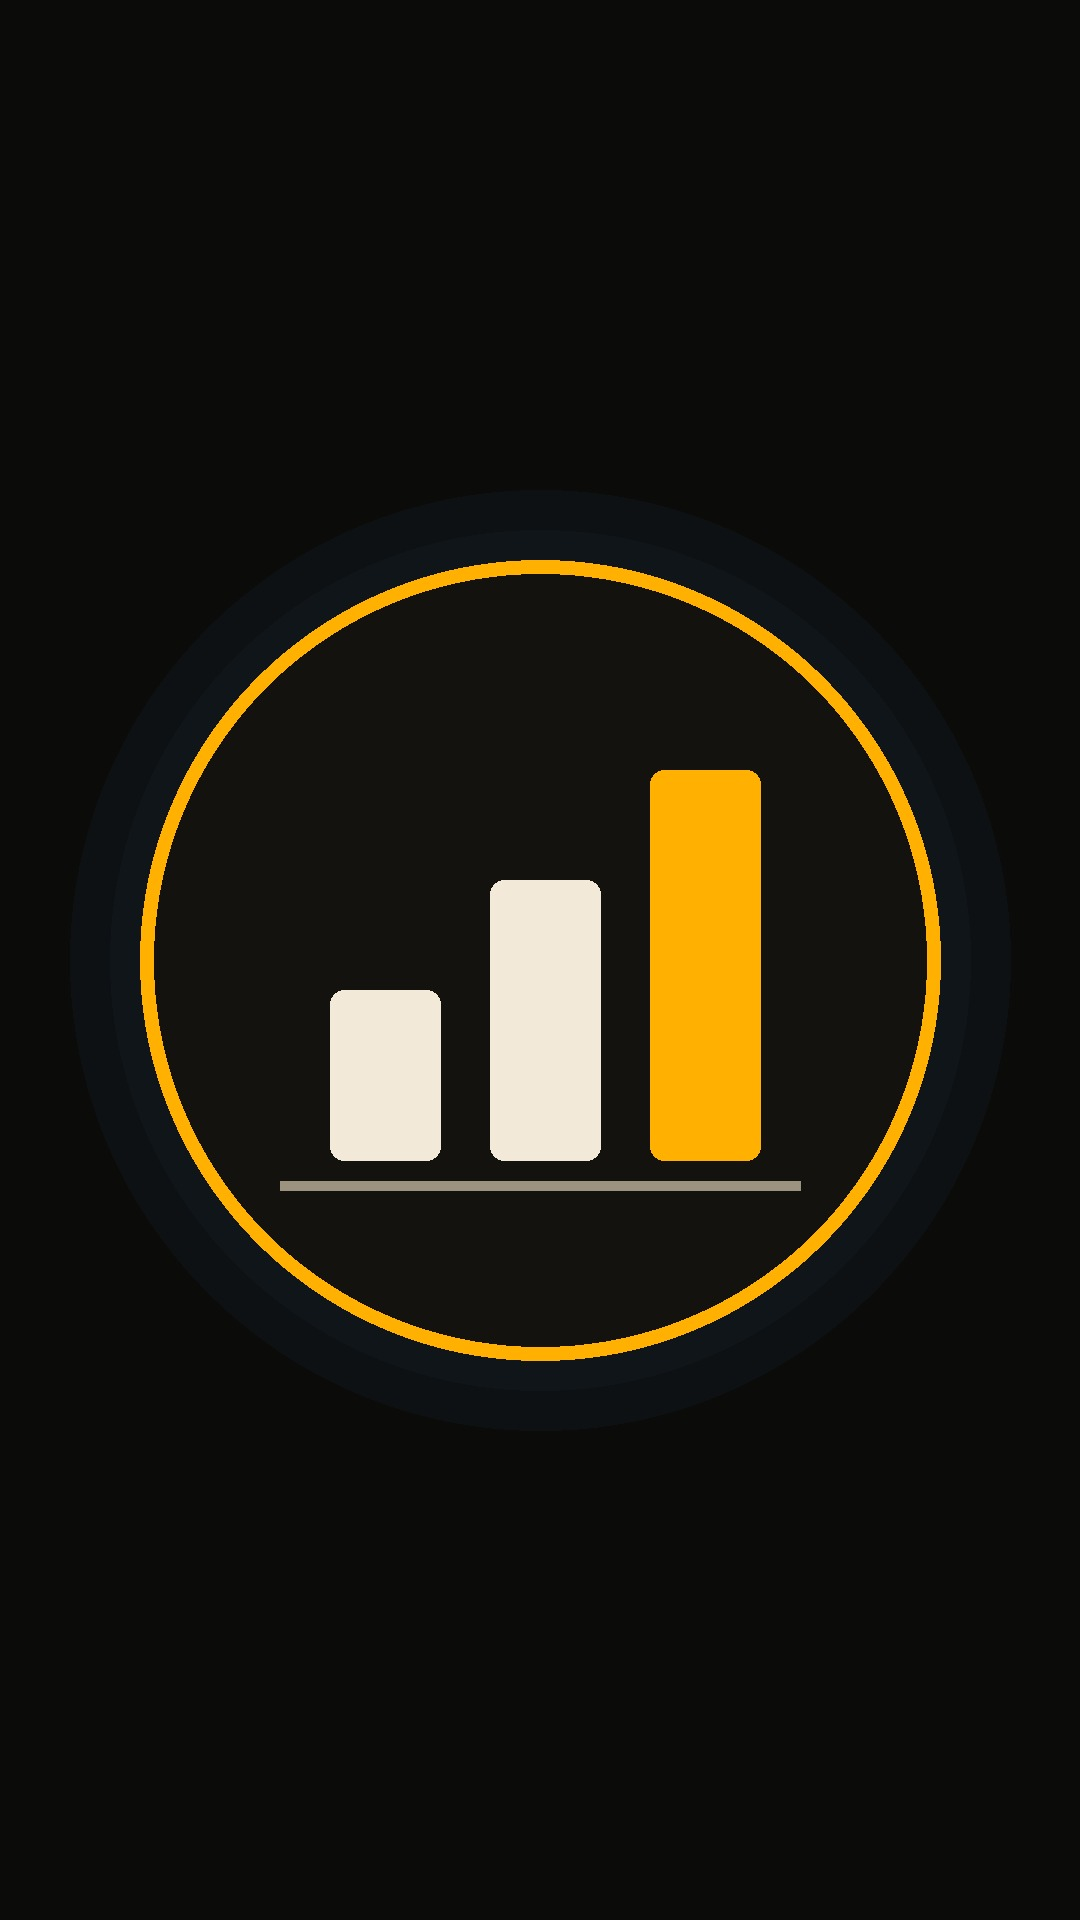
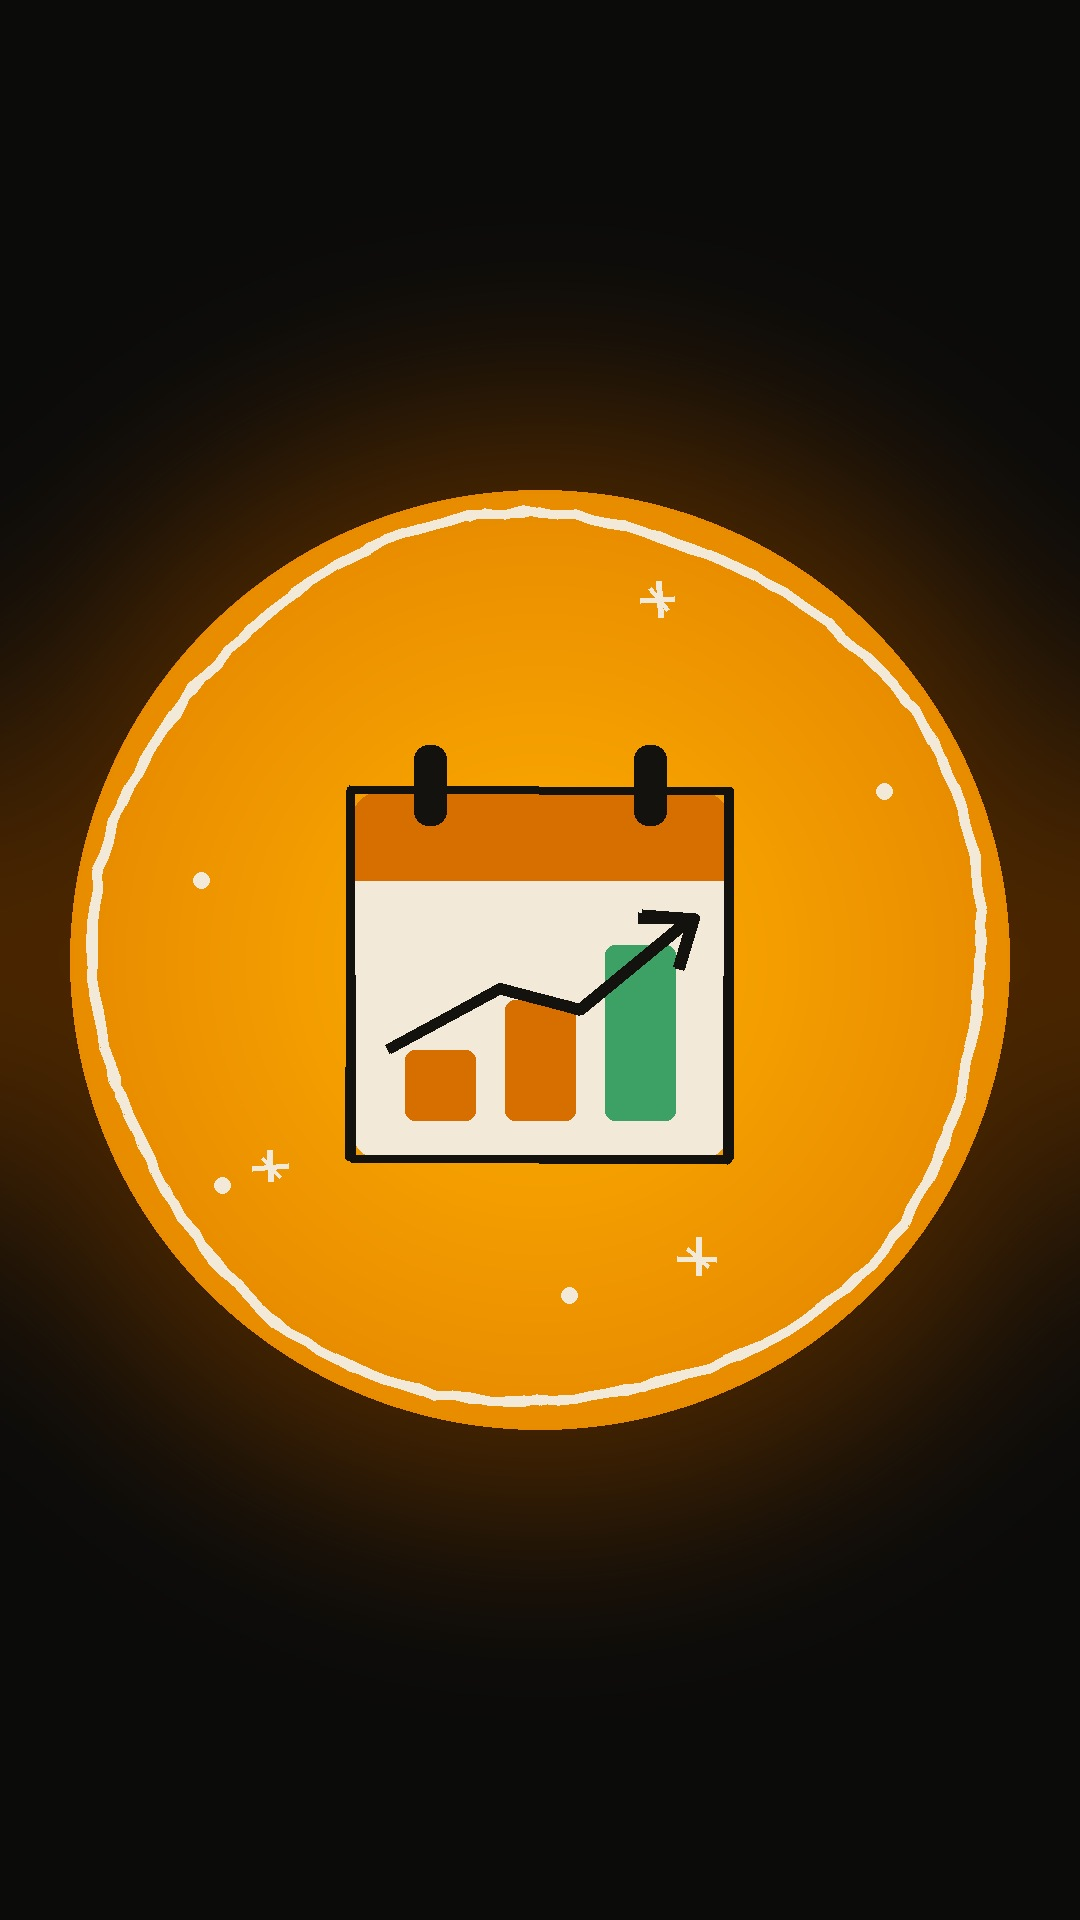
Instagram highlights v2: six highlights (Start here, Daily, Lead changes, Big moments, Report cards, Meet the AIs) with colourful hand-drawn covers and a visual guide
Claude-Session: https://claude.ai/code/session_01Hd3CX99GmsRbdRWtmXYXJE

diff --git a/ops/hl_covers.py b/ops/hl_covers.py
@@ -1,0 +1,185 @@
+"""Instagram highlight covers, v2 (owner, Oct 30: "more colour, more drawings, more entertaining"). Each cover is 1080x1920; Instagram
+shows only the centre circle, so each one is a bright disc with a big hand-drawn icon, doodles and sparkles, one colour per highlight.
+Also draws a one-page visual guide (social/highlights/guide-*.jpg): every highlight, its cover, what goes in it and how many stories.
+
+  python3 ops/hl_covers.py
+"""
+import math
+import os
+import random
+import sys
+
+from PIL import Image, ImageDraw, ImageFilter
+
+sys.path.insert(0, os.path.dirname(os.path.abspath(__file__)))
+import postcard as pc  # noqa: E402
+
+BG = (11, 11, 10)
+CREAM = (242, 233, 216)
+INK = (20, 18, 15)
+
+# name, file, colour, second colour, what goes in it, how many stories
+HL = [
+    ('Start here', 'start-here', (61, 220, 132), (24, 140, 90), 'How the race works: the three AIs, the ten races, how scoring works, where to follow.', '4 stories'),
+    ('Daily', 'daily', (255, 176, 0), (214, 110, 0), 'The results of every race day, one story per day, all ten races on it.', '1 a day (all 32)'),
+    ('Lead changes', 'lead-changes', (255, 209, 102), (217, 119, 87), 'Every time an AI takes the lead in a race. Keep the biggest ones.', 'best 10 to 15'),
+    ('Big moments', 'big-moments', (255, 90, 78), (180, 30, 60), 'The headlines: the Binance hack call, huge wins, painful losses.', '5 to 10'),
+    ('Report cards', 'report-cards', (79, 143, 247), (60, 70, 200), 'The AIs grading each other: the harshest Fs and the best As.', '4 to 8'),
+    ('Meet the AIs', 'meet-the-ais', (167, 139, 250), (110, 70, 210), 'Claude, Gemini and ChatGPT: who they are and how each one plays.', '4 stories'),
+]
+
+
+def wobble(d, pts, color, width, seed, passes=2):
+    rnd = random.Random(seed)
+    for k in range(passes):
+        d.line([(x + rnd.uniform(-2.2, 2.2), y + rnd.uniform(-2.2, 2.2)) for x, y in pts], fill=color, width=max(3, width - 3 * k), joint='curve')
+
+
+def ring(d, cx, cy, r, color, width, seed):
+    pts = [(cx + r * (1 + 0.012 * math.sin(5 * t + seed)) * math.cos(t), cy + r * (1 + 0.012 * math.sin(5 * t + seed)) * math.sin(t)) for t in [i * 2 * math.pi / 160 for i in range(166)]]
+    wobble(d, pts, color, width, seed)
+
+
+def sparkle(d, x, y, s, color, width=6):
+    wobble(d, [(x - s, y), (x + s, y)], color, width, int(x * y) % 97, 1)
+    wobble(d, [(x, y - s), (x, y + s)], color, width, int(x + y) % 89, 1)
+    wobble(d, [(x - s * .55, y - s * .55), (x + s * .55, y + s * .55)], color, max(3, width - 2), int(x) % 83, 1)
+
+
+def disc(im, cx, cy, r, c1, c2):
+    """A soft radial gradient disc."""
+    g = Image.new('RGB', (2 * r, 2 * r), c2)
+    gd = ImageDraw.Draw(g)
+    for i in range(r, 0, -4):
+        t = i / r
+        col = tuple(int(c1[k] * (1 - t * .55) + c2[k] * (t * .55)) for k in range(3))
+        gd.ellipse([r - i, r - i, r + i, r + i], fill=col)
+    mask = Image.new('L', (2 * r, 2 * r), 0)
+    ImageDraw.Draw(mask).ellipse([0, 0, 2 * r - 1, 2 * r - 1], fill=255)
+    im.paste(g, (cx - r, cy - r), mask)
+
+
+def icon(d, name, cx, cy, col, dark):
+    s = 1.0
+    if name == 'start-here':   # a play button with motion lines
+        tri = [(cx - 110, cy - 170), (cx - 110, cy + 170), (cx + 180, cy)]
+        d.polygon(tri, fill=CREAM)
+        wobble(d, tri + [tri[0]], INK, 12, 5)
+        for i, dy in enumerate((-90, 0, 90)):
+            wobble(d, [(cx - 270, cy + dy), (cx - 165, cy + dy)], CREAM, 14, 20 + i)
+    elif name == 'daily':   # a calendar page with a rising arrow
+        d.rounded_rectangle([cx - 190, cy - 170, cx + 190, cy + 200], radius=34, fill=CREAM)
+        d.rounded_rectangle([cx - 190, cy - 170, cx + 190, cy - 80], radius=34, fill=dark)
+        d.rectangle([cx - 190, cy - 110, cx + 190, cy - 80], fill=dark)
+        for x in (-110, 110):
+            d.rounded_rectangle([cx + x - 16, cy - 215, cx + x + 16, cy - 135], radius=14, fill=INK)
+        for i, h in enumerate((70, 120, 175)):
+            x = cx - 135 + i * 100
+            d.rounded_rectangle([x, cy + 160 - h, x + 70, cy + 160], radius=10, fill=dark if i < 2 else (61, 160, 100))
+        wobble(d, [(cx - 150, cy + 90), (cx - 40, cy + 30), (cx + 40, cy + 50), (cx + 150, cy - 40)], INK, 12, 7)
+        wobble(d, [(cx + 100, cy - 45), (cx + 155, cy - 42), (cx + 140, cy + 10)], INK, 12, 8)
+        wobble(d, [(cx - 190, cy - 170), (cx + 190, cy - 170), (cx + 190, cy + 200), (cx - 190, cy + 200), (cx - 190, cy - 170)], INK, 9, 9)
+    elif name == 'lead-changes':   # a crown with jewels
+        pts = [(cx - 230, cy + 110), (cx - 250, cy - 150), (cx - 115, cy - 20), (cx, cy - 210), (cx + 115, cy - 20), (cx + 250, cy - 150), (cx + 230, cy + 110)]
+        d.polygon(pts, fill=CREAM)
+        wobble(d, pts + [pts[0]], INK, 12, 11)
+        d.rounded_rectangle([cx - 230, cy + 120, cx + 230, cy + 200], radius=18, fill=CREAM, outline=INK, width=10)
+        for (x, y), jc in zip(((-250, -150), (0, -210), (250, -150)), ((217, 119, 87), (79, 143, 247), (61, 220, 132))):
+            d.ellipse([cx + x - 36, cy + y - 36, cx + x + 36, cy + y + 36], fill=jc, outline=INK, width=8)
+        for i, x in enumerate((-120, 0, 120)):
+            d.ellipse([cx + x - 22, cy + 138, cx + x + 22, cy + 182], fill=dark)
+    elif name == 'big-moments':   # a lightning bolt with a burst
+        for k in range(12):
+            a = k * math.pi / 6
+            wobble(d, [(cx + 250 * math.cos(a), cy + 250 * math.sin(a)), (cx + 320 * math.cos(a), cy + 320 * math.sin(a))], CREAM, 12, 30 + k, 1)
+        bolt = [(cx + 40, cy - 240), (cx - 130, cy + 30), (cx - 10, cy + 30), (cx - 60, cy + 240), (cx + 140, cy - 50), (cx + 20, cy - 50), (cx + 90, cy - 240)]
+        d.polygon(bolt, fill=(255, 209, 102))
+        wobble(d, bolt + [bolt[0]], INK, 12, 41)
+    elif name == 'report-cards':   # an A+ on a paper, circled, with a pencil
+        d.rounded_rectangle([cx - 170, cy - 220, cx + 170, cy + 220], radius=26, fill=CREAM)
+        wobble(d, [(cx - 170, cy - 220), (cx + 170, cy - 220), (cx + 170, cy + 220), (cx - 170, cy + 220), (cx - 170, cy - 220)], INK, 9, 50)
+        f = pc.font('sans', 'Bold', 230)
+        d.text((cx - 10, cy - 20), 'A', font=f, fill=(255, 90, 78), anchor='mm')
+        d.text((cx + 115, cy - 95), '+', font=pc.font('sans', 'Bold', 130), fill=(255, 90, 78), anchor='mm')
+        ring(d, cx + 5, cy - 25, 165, (255, 90, 78), 10, 51)
+        wobble(d, [(cx - 120, cy + 140), (cx + 120, cy + 140)], (155, 146, 127), 8, 52, 1)
+        wobble(d, [(cx - 120, cy + 180), (cx + 60, cy + 180)], (155, 146, 127), 8, 55, 1)
+        # the pencil
+        p = [(cx + 150, cy + 250), (cx + 300, cy + 40), (cx + 345, cy + 75), (cx + 195, cy + 285)]
+        d.polygon(p, fill=(255, 209, 102)); wobble(d, p + [p[0]], INK, 8, 56)
+        tip = [(cx + 150, cy + 250), (cx + 195, cy + 285), (cx + 140, cy + 305)]
+        d.polygon(tip, fill=CREAM); wobble(d, tip + [tip[0]], INK, 7, 57)
+    elif name == 'meet-the-ais':   # three little robot faces in the AIs' colours
+        for i, (fc, tx) in enumerate((((217, 119, 87), -200), ((79, 143, 247), 0), ((242, 242, 242), 200))):
+            x, y = cx + tx, cy + (-40 if i == 1 else 40)
+            wobble(d, [(x, y - 120), (x, y - 175)], CREAM, 9, 60 + i, 1)
+            d.ellipse([x - 22, y - 200, x + 22, y - 156], fill=(255, 209, 102), outline=INK, width=6)
+            d.rounded_rectangle([x - 95, y - 120, x + 95, y + 80], radius=46, fill=fc, outline=INK, width=10)
+            for ex in (-38, 38):
+                d.ellipse([x + ex - 20, y - 60, x + ex + 20, y - 20], fill=INK)
+                d.ellipse([x + ex - 6, y - 52, x + ex + 4, y - 42], fill=CREAM)
+            wobble(d, [(x - 35, y + 25), (x, y + 45), (x + 35, y + 25)], INK, 9, 63 + i, 1)
+
+
+def cover(name, c1, c2, path, seed):
+    W, H, cx, cy, r = 1080, 1920, 540, 960, 470
+    im = Image.new('RGB', (W, H), BG)
+    # a soft colour glow behind the disc
+    glow = Image.new('RGB', (W, H), BG); gd = ImageDraw.Draw(glow)
+    gd.ellipse([cx - 560, cy - 560, cx + 560, cy + 560], fill=tuple(int(v * .35) for v in c2))
+    im = Image.blend(im, glow.filter(ImageFilter.GaussianBlur(90)), 1.0)
+    disc(im, cx, cy, r, c1, c2)
+    d = ImageDraw.Draw(im)
+    ring(d, cx, cy, r - 26, CREAM, 10, seed)
+    rnd = random.Random(seed)
+    for k in range(7):   # sparkles and dots inside the edge of the circle
+        a = rnd.uniform(0, 2 * math.pi); rr = rnd.uniform(330, 395)
+        x, y = cx + rr * math.cos(a), cy + rr * math.sin(a)
+        if k % 2:
+            sparkle(d, x, y, rnd.uniform(16, 26), CREAM, 6)
+        else:
+            d.ellipse([x - 8, y - 8, x + 8, y + 8], fill=CREAM)
+    icon(d, name, cx, cy, c1, c2)
+    im.save(path, quality=93)
+    return path
+
+
+def guide(paths, out):
+    """One colourful page: every highlight, its cover, what goes in it and how many stories."""
+    W, H = 1440, 2560
+    im = Image.new('RGB', (W, H), BG); d = ImageDraw.Draw(im)
+    f = lambda k, w, s: pc.font(k, w, s)
+    d.text((90, 120), 'PAPER TRADES', font=f('mono', 'SemiBold', 44), fill=CREAM, anchor='lm')
+    d.text((90, 230), 'Your highlights', font=f('sans', 'Bold', 120), fill=(255, 176, 0), anchor='lm')
+    wobble(d, [(95, 310), (300, 302), (520, 312), (740, 304)], (255, 176, 0), 10, 3)
+    d.text((90, 380), 'In this order on the profile. Each circle is its cover.', font=f('sans', 'Regular', 44), fill=(155, 146, 127), anchor='lm')
+    y = 470
+    for (title, key, c1, c2, what, n), p in zip(HL, paths):
+        cov = Image.open(p).crop((540 - 470, 960 - 470, 540 + 470, 960 + 470)).resize((260, 260), Image.LANCZOS)
+        m = Image.new('L', (260, 260), 0); ImageDraw.Draw(m).ellipse([0, 0, 259, 259], fill=255)
+        im.paste(cov, (90, y), m)
+        ring(d, 220, y + 130, 138, c1, 7, len(title))
+        d.text((400, y + 50), title, font=f('sans', 'Bold', 66), fill=CREAM, anchor='lm')
+        tw = f('sans', 'Bold', 66).getlength(title)
+        d.rounded_rectangle([400 + tw + 30, y + 22, 400 + tw + 30 + f('mono', 'SemiBold', 30).getlength(n) + 40, y + 78], radius=28, fill=c1)
+        d.text((400 + tw + 50, y + 50), n, font=f('mono', 'SemiBold', 30), fill=INK, anchor='lm')
+        ww, yy = W - 490, y + 110
+        line = ''
+        for wd in what.split():
+            t = (line + ' ' + wd).strip()
+            if f('sans', 'Regular', 38).getlength(t) > ww:
+                d.text((400, yy), line, font=f('sans', 'Regular', 38), fill=(200, 192, 176), anchor='lm'); yy += 50; line = wd
+            else:
+                line = t
+        d.text((400, yy), line, font=f('sans', 'Regular', 38), fill=(200, 192, 176), anchor='lm')
+        y += 330
+    d.text((90, H - 120), 'Claude tells you which story goes where on GitHub ("Instagram highlights to add").', font=f('sans', 'Regular', 36), fill=(155, 146, 127), anchor='lm')
+    im.save(out, quality=92)
+    return out
+
+
+if __name__ == '__main__':
+    os.makedirs('social/highlights', exist_ok=True)
+    ps = [cover(k, c1, c2, f'social/highlights/{k}.jpg', i + 3) for i, (t, k, c1, c2, w, n) in enumerate(HL)]
+    print('covers:', ps)
+    print('guide:', guide(ps, 'social/highlights/guide.jpg'))

diff --git a/ops/highlights.py b/ops/highlights.py
@@ -22,7 +22,9 @@ TITLE = '📌 Instagram highlights to add'
 # the highlights, in the order they should sit on the profile, and which stories go in each
 # the first daily stories showed only the races-led count (Day 1's remake only the sports bets); the ten-race versions replace them
 SKIP = {'story-daily-2026-10-29', 'story-daily-2026-10-30', 'story-day1-remake-v1'}
-HIGHLIGHTS = [('Start here', ('story-intro',)), ('Daily', ('story-daily', 'story-ten-')), ('Lead changes', ('story-moment',))]
+HIGHLIGHTS = [('Start here', ('story-intro',)), ('Daily', ('story-daily', 'story-ten-')), ('Lead changes', ('story-moment',)),
+              ('Big moments', ('story-feature-binance', 'story-big-')), ('Report cards', ('story-feature-grades', 'story-grades-')),
+              ('Meet the AIs', ('story-meet-',))]   # v2 covers (owner, Oct 30: more colour and drawings): ops/hl_covers.py
 NAMES = {'Crypto': 'Crypto', 'Stocks': 'Stocks', 'China': 'China stocks', 'Metals': 'Metals', 'Energy': 'Oil and energy', 'Options': 'Options',
          'Currencies': 'Currencies', 'Safe': 'Play it safe', 'Sports': 'Sports', 'Predictions': 'Prediction markets'}
 
@@ -44,6 +46,10 @@ def describe(sid):
     if sid.startswith('story-moment-'):
         who = {'claude': 'Claude', 'gemini': 'Gemini', 'chatgpt': 'ChatGPT'}.get(p[-1], p[-1])
         return f'Lead change story: {who} took the lead in {NAMES.get(p[2], p[2])}'
+    if sid.startswith('story-feature-binance'):
+        return 'Big moments story: Gemini sold its crypto 16 minutes before the Binance hack'
+    if sid.startswith('story-feature-grades'):
+        return 'Report cards story: the AIs grade each other'
     if sid.startswith('story-intro'):
         return '"Start here" story (how the race works)'
     if sid.startswith('story-day1'):
@@ -133,6 +139,14 @@ def sync():
 
 
 def covers():
+    import hl_covers   # v2: one bright colour and a hand-drawn icon per highlight
+    os.makedirs('social/highlights', exist_ok=True)
+    for i, (t, k, c1, c2, w, n) in enumerate(hl_covers.HL):
+        print('drew', hl_covers.cover(k, c1, c2, f'social/highlights/{k}.jpg', i + 3))
+    return
+
+
+def covers_v1():
     from PIL import Image, ImageDraw
     import postcard as pc
     os.makedirs('social/highlights', exist_ok=True)
